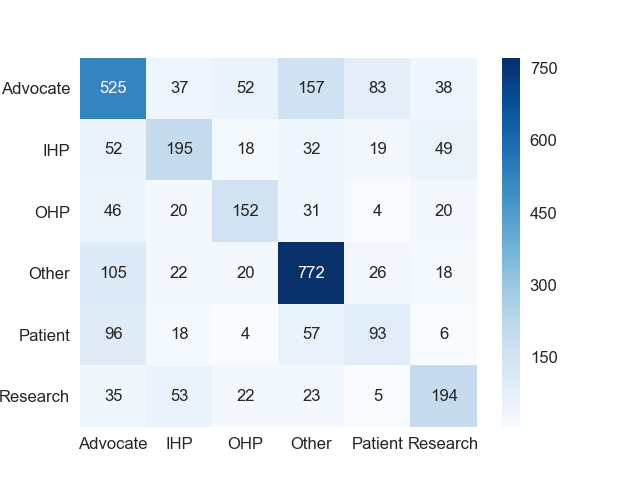
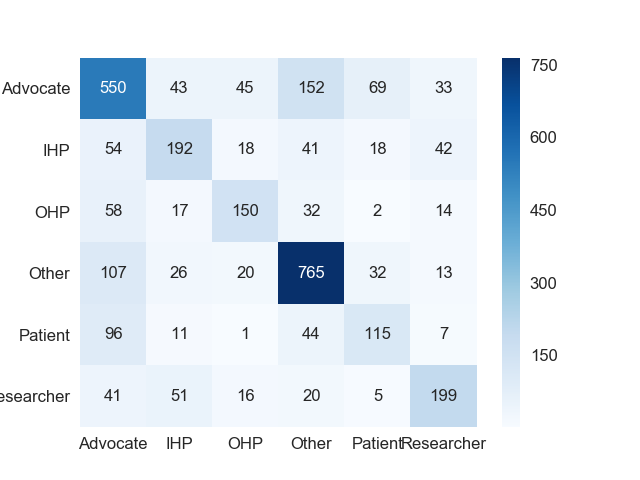
.

diff --git a/code/python/src/exp/result_parser.py b/code/python/src/exp/result_parser.py
@@ -1,0 +1,133 @@
+import csv
+import os
+
+
+def prep_value(parts: list):
+    parts_str = []
+    for i in range(1, len(parts) - 1):
+        p = parts[i].strip()
+        parts_str.append(str(p)[1:])
+
+    return " " + parts_str[0] + "  " + parts_str[1] + "  " + parts_str[2]
+
+
+def parse(in_csv_file, out_file):
+    f = open(in_csv_file)
+    # use readline() to read the first line
+    lines = f.readlines()
+    f.close()
+
+    count = -1
+    out_lines = []
+    for l in lines:
+        count += 1
+        if count % 15 == 0:  # new setting
+            if count > 0:
+                out_lines.append(line)
+            line = [None] * 8
+            line[0] = l.strip()
+        if (count - 2) % 15 == 0:  # advocate
+            parts = l.split(",")
+            line[1] = prep_value(parts)
+        if (count - 3) % 15 == 0:  # ihp
+            parts = l.split(",")
+            line[2] = prep_value(parts)
+        if (count - 4) % 15 == 0:  # hpo
+            parts = l.split(",")
+            line[3] = prep_value(parts)
+        if (count - 6) % 15 == 0:  # patient
+            parts = l.split(",")
+            line[4] = prep_value(parts)
+        if (count - 7) % 15 == 0:  # research
+            parts = l.split(",")
+            line[5] = prep_value(parts)
+        if (count - 5) % 15 == 0:  # other
+            parts = l.split(",")
+            line[6] = prep_value(parts)
+        if (count - 8) % 15 == 0:  # avg
+            parts = l.split(",")
+            line[7] = prep_value(parts)
+        else:
+            continue
+
+    out_lines.append(line)
+    with open(out_file, 'w', newline='\n') as csvfile:
+        csvwriter = csv.writer(csvfile, delimiter=',', quotechar='"')
+        for r in out_lines:
+            csvwriter.writerow(r)
+
+
+# this parses the diff results of pca in paper to absolute values
+def parse_pca_results(file_base_results, file_pca_results, out_file):
+    f = open(file_base_results)
+    # use readline() to read the first line
+    base_results = f.readlines()
+    f.close()
+
+    f = open(file_pca_results)
+    # use readline() to read the first line
+    pca_results = f.readlines()
+    f.close()
+    with open(out_file, 'w', newline='\n') as csvfile:
+        csvwriter = csv.writer(csvfile, delimiter=',', quotechar='"')
+
+        line = []
+        for i in range(len(base_results)):
+            base_r = base_results[i]
+            pca_r = pca_results[i]
+
+            base_values=base_r.strip().split()
+            pca_values=pca_r.strip().split()
+
+            if (len(pca_values)<3):
+                continue
+
+            final_value=" "
+            for j in range(len(base_values)):
+                bv = float(base_values[j])
+                pv = pca_values[j]
+                if pv=="-":
+                    pv=0
+                elif pv.startswith("("):
+                    pv=0-float(pv[1:len(pv)-1])
+
+                try:
+                    bv+=float(pv)
+                    if bv>1:
+                        print("error 2")
+                    bv=str(bv)
+                    if len(bv)<4:
+                        bv+="0"
+                    bv=bv[1:4]
+                    final_value+=str(bv)+" "
+                except TypeError:
+                    print()
+                except ValueError:
+                    print()
+            final_value=final_value.strip()
+            line.append(final_value)
+
+
+
+
+            if i-6>=0 and (i-6)% 7 == 0:
+                csvwriter.writerow(line)
+                line = []
+
+        csvwriter.writerow(line)
+
+if __name__ == "__main__":
+
+
+
+    outfolder = "/home/zz/Work/msm4phi/output/classifier/raw/"
+    infolder = "/home/zz/Work/msm4phi/output/classifier/raw/tmp"
+    for af in os.listdir(infolder):
+        infile = infolder + "/" + af
+        parse(infile, outfolder + "/" + af)
+
+    # in_base_file="/home/zz/Work/msm4phi/resources/cml_results.txt"
+    # in_pcv_file="/home/zz/Work/msm4phi/resources/cml_results_pca.txt"
+    # out_file="/home/zz/Work/msm4phi/resources/pca.csv"
+    # parse_pca_results(in_base_file, in_pcv_file, out_file)
+

diff --git a/code/python/src/feature/preotiuc/preotiuc_feature_extractor.py b/code/python/src/feature/preotiuc/preotiuc_feature_extractor.py
@@ -4,7 +4,7 @@ import logging
 import sys
 
 import pandas
-from sklearn.cluster import SpectralClustering
+from sklearn.cluster import SpectralClustering, KMeans
 from sklearn.feature_extraction.text import CountVectorizer, TfidfVectorizer
 from sklearn.metrics.pairwise import cosine_similarity
 
@@ -14,6 +14,8 @@ import numpy
 import random as rn
 import gensim
 import os
+import pickle
+
 
 logger = logging.getLogger(__name__)
 
@@ -79,7 +81,8 @@ def calc(word_vectors):
     return matrix
 
 def cluster(similarity_matrix):
-    cls=SpectralClustering(n_clusters=200).fit_predict(similarity_matrix)
+    #cls=SpectralClustering(n_clusters=200).fit_predict(similarity_matrix)
+    cls = KMeans(n_clusters=200).fit_predict(similarity_matrix)
 
     #create word cluster memberships
     cluster_member={}
@@ -94,7 +97,7 @@ def cluster(similarity_matrix):
 
     return cluster_member
 
-def generate_cluster_features(cluster_members:dict,
+def generate_cluster_features(input_folder,cluster_members:dict,
                               word_vocab:dict, user_tweets_folder,
                               raw_label_data,
                               out_feature_csv):
@@ -164,25 +167,39 @@ if __name__ == "__main__":
     #1. read all tweets
     #glove.840B.300d.bin.gensim
     #GoogleNews-vectors-negative300.bin.gz
+    # f = open('clusters.data', 'rb')
+    # cluster_members = pickle.load(f)
+    # f.close()
+
     input_folder=sys.argv[1]
     tweets=set()
-    for af in os.listdir(input_folder):
-        f = open(input_folder+"/"+af, "r")
-        lines = f.readlines()
-        f.close()
-        for i in range(1,len(lines)):
-            parts=lines[i].lower().split("|")
-            if len(parts)<2:
-                continue
-            l = parts[1].strip()
-            if (l.startswith("rt ")):
-                l=l[3:]
-            tweets.add(l)
+
+    #loading tweets from msm4phi corpus
+    # for af in os.listdir(input_folder):
+    #     f = open(input_folder+"/"+af, "r")
+    #     lines = f.readlines()
+    #     f.close()
+    #     for i in range(1,len(lines)):
+    #         parts=lines[i].lower().split("|")
+    #         if len(parts)<2:
+    #             continue
+    #         l = parts[1].strip()
+    #         if (l.startswith("rt ")):
+    #             l=l[3:]
+    #         tweets.add(l)
+
+    #loading tweets from sent140
+    df = pandas.read_csv(input_folder, header=0, delimiter=",", quoting=0, quotechar='"',
+                         encoding='utf-8')
+    for index, row in df.iterrows():
+        text = row[5].replace("\\s+", " ").strip()
+        tweets.add(text)
+       
 
     #2. extract vocab
     print("Extracting vocab, {} texts, at {}".format(len(tweets), datetime.now()))
     word_vocab,word_index=get_words(list(tweets))
-
+    #
     #3. load embedding model
     print("Loading embeddings, at {}".format(datetime.now()))
     word_emb=load_embedding_model(sys.argv[2])
@@ -203,9 +220,15 @@ if __name__ == "__main__":
         for index in v:
             cluster_members[index]=k
 
+    filehandler = open("clusters.data", 'w')
+    pickle.dump(cluster_members, filehandler)
+    filehandler.close()
+
+
+
     #7. create features
     print("Creating feature csv, at {}".format(datetime.now()))
-    generate_cluster_features(cluster_members,word_vocab,input_folder,
+    generate_cluster_features(input_folder,cluster_members,word_vocab,input_folder,
                               sys.argv[3], sys.argv[4])
 
     print("complete")

diff --git a/code/python/src/exp/exp_runner_dnn.py b/code/python/src/exp/exp_runner_dnn.py
@@ -13,14 +13,11 @@ from exp import feature_creator as fc
 from classifier import classifier_main as cm
 import pandas as pd
 
-
 #DNN_MODEL_DESCRIPTOR= "cnn[2,3,4](conv1d=100)|maxpooling1d=4|flatten|dense=6-softmax|glv"
 #DNN_MODEL_DESCRIPTOR="lstm=100-False|dense=6-softmax|glv"
 #DNN_MODEL_DESCRIPTOR="bilstm=100-False|dense=6-softmax|glv"
 #DNN_MODEL_DESCRIPTOR="scnn[2,3,4](conv1d=100,maxpooling1d=4)|maxpooling1d=4|flatten|dense=6-softmax|glv"
 #DNN_MODEL_DESCRIPTOR="scnn[2,3,4](conv1d=100)|maxpooling1d=4|flatten|dense=6-softmax|glv"
-
-
 
 if __name__ == "__main__":
     # this is the file pointing to the basic features, i.e., just the numeric values
@@ -29,8 +26,8 @@ if __name__ == "__main__":
     # this is the folder containing other extracted features
     csv_other_feature_folder = sys.argv[2]
     # this is needed if dnn model is used
-    #dnn_embedding_file = "/home/zz/Work/data/embeddings/glove.840B.300d.bin.gensim"
-    dnn_embedding_file = "/home/zz/Work/data/embeddings/Set1_TweetDataWithoutSpam_Word.bin"
+    dnn_embedding_file = "/home/zz/Work/data/embeddings/glove.840B.300d.bin.gensim"
+    #dnn_embedding_file = "/home/zz/Work/data/embeddings/Set1_TweetDataWithoutSpam_Word.bin"
 
 
     # this is the folder to save output to

diff --git a/code/python/src/util/confusion_matrix.py b/code/python/src/util/confusion_matrix.py
@@ -14,9 +14,9 @@ def replace_labels(v):
     elif v==4:
         return "Patient"
     elif v==5:
-        return "Research"
+        return "Researcher"
 
-in_file_name = "/home/zz/Cloud/GDrive/ziqizhang/project/msm4phi/paper2/data/error_analysis/predictions-bilstm-stakeholdercls_dnn_text_.csv"
+in_file_name = "/home/zz/Work/msm4phi/output/classifier/raw/oir/scnn/predictions-dnn-stakeholdercls_dnn_text+autodictext_.csv"
 
 df = pd.read_csv(in_file_name, header=0, delimiter=",", quoting=0, encoding="utf-8",
                  )
@@ -34,7 +34,7 @@ for i in range(len(df1)):
     t = df1_row[1]
     gold.append(replace_labels(t))
 
-class_labels=["Advocate", "IHP", "OHP","Other","Patient","Research"]
+class_labels=["Advocate", "IHP", "OHP","Other","Patient","Researcher"]
 cm=confusion_matrix(gold, pred, labels=class_labels)
 
 df_cm = pd.DataFrame(cm, index=class_labels, columns=class_labels)
